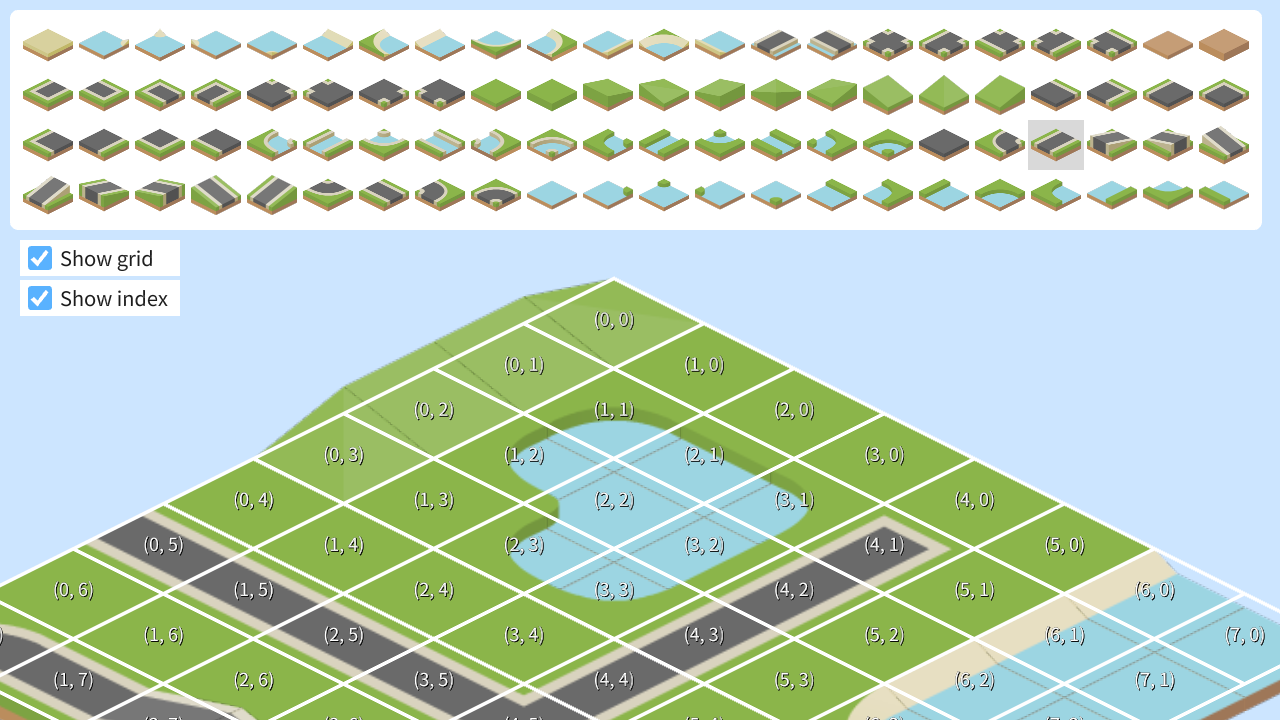
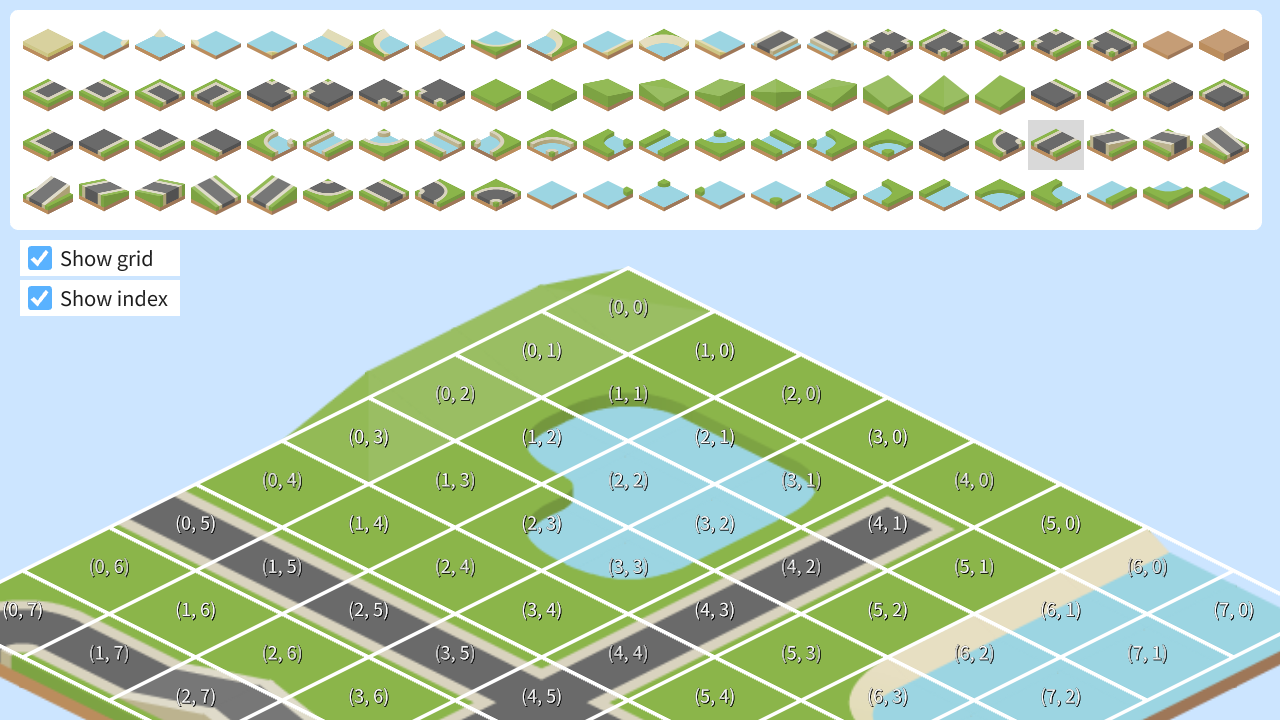
update

Changed region(s): [[0.0, 0.3667, 1.0, 1.0]]

diff --git a/Samples/IsometricView/Main.cpp b/Samples/IsometricView/Main.cpp
@@ -1,10 +1,10 @@
-# include <Siv3D.hpp> // OpenSiv3D v0.6.8
+# include <Siv3D.hpp> // OpenSiv3D v0.6.15
 
 // タイルの一辺の長さ（ピクセル）
-inline constexpr Vec2 TileOffset{ 50, 25 };
+inline constexpr Vec2 TileOffset{ 48, 24 };
 
 // タイルの厚み（ピクセル）
-inline constexpr int32 TileThickness = 15;
+inline constexpr int32 TileThickness = 17;
 
 /*
 	インデックスとタイルの配置の関係 (N = 4)
@@ -146,6 +146,27 @@ Optional<Point> ToIndex(const Vec2& pos, const Array<Quad>& columnQuads, const A
 	return Point{ x, y };
 }
 
+/// @brief 画像を読み込み、アルファ乗算済みのテクスチャを作成します。
+/// @param path 画像ファイルのパス
+/// @return アルファ乗算済みのテクスチャ
+/// @remark 境界付近の品質を向上させるため、アルファ乗算済みのテクスチャを作成します。
+/// @remark 描画時は `BlendState::Premultiplied` を指定してください。
+[[nodiscard]]
+Texture LoadPremultipliedTexture(FilePathView path)
+{
+	Image image{ path };
+	Color* p = image.data();
+	const Color* const pEnd = (p + image.num_pixels());
+	while (p != pEnd)
+	{
+		p->r = static_cast<uint8>((static_cast<uint16>(p->r) * p->a) / 255);
+		p->g = static_cast<uint8>((static_cast<uint16>(p->g) * p->a) / 255);
+		p->b = static_cast<uint8>((static_cast<uint16>(p->b) * p->a) / 255);
+		++p;
+	}
+	return Texture{ image };
+}
+
 void Main()
 {
 	// ウィンドウをリサイズする
@@ -153,7 +174,7 @@ void Main()
 
 	// 背景を水色にする
 	Scene::SetBackground(ColorF{ 0.8, 0.9, 1.0 });
-	
+
 	// https://kenney.nl/assets/isometric-roads
 	// からファイル一式をダウンロードし、「png」フォルダを App フォルダにコピーしてください。
 
@@ -170,7 +191,7 @@ void Main()
 			continue;
 		}
 
-		textures << Texture{ filePath };
+		textures << LoadPremultipliedTexture(filePath);
 	}
 
 	// 全部で 88 種類のタイルが読み込まれれば正常
@@ -217,26 +238,31 @@ void Main()
 			// 2D カメラによる座標変換を適用する
 			const auto tr = camera.createTransformer();
 
-			// 上から順にタイルを描く
-			for (int32 i = 0; i < (N * 2 - 1); ++i)
 			{
-				// x の開始インデックス
-				const int32 xi = (i < (N - 1)) ? 0 : (i - (N - 1));
+				// 乗算済みアルファ用のブレンドステートを適用する
+				const ScopedRenderStates2D blend{ BlendState::Premultiplied };
 
-				// y の開始インデックス
-				const int32 yi = (i < (N - 1)) ? i : (N - 1);
-
-				// 左から順にタイルを描く
-				for (int32 k = 0; k < (N - Abs(N - i - 1)); ++k)
+				// 上から順にタイルを描く
+				for (int32 i = 0; i < (N * 2 - 1); ++i)
 				{
-					// タイルのインデックス
-					const Point index{ (xi + k), (yi - k) };
+					// x の開始インデックス
+					const int32 xi = (i < (N - 1)) ? 0 : (i - (N - 1));
 
-					// そのタイルの底辺中央の座標
-					const Vec2 pos = ToTileBottomCenter(index, N);
+					// y の開始インデックス
+					const int32 yi = (i < (N - 1)) ? i : (N - 1);
 
-					// 底辺中央を基準にタイルを描く
-					textures[grid[index]].draw(Arg::bottomCenter = pos);
+					// 左から順にタイルを描く
+					for (int32 k = 0; k < (N - Abs(N - i - 1)); ++k)
+					{
+						// タイルのインデックス
+						const Point index{ (xi + k), (yi - k) };
+
+						// そのタイルの底辺中央の座標
+						const Vec2 pos = ToTileBottomCenter(index, N);
+
+						// 底辺中央を基準にタイルを描く
+						textures[grid[index]].draw(Arg::bottomCenter = pos);
+					}
 				}
 			}
 
@@ -299,40 +325,45 @@ void Main()
 			// 背景
 			TileMenuRoundRect.draw();
 
-			// 各タイル
-			for (int32 y = 0; y < 4; ++y)
 			{
-				for (int32 x = 0; x < 22; ++x)
+				// 乗算済みアルファ用のブレンドステートを適用する
+				const ScopedRenderStates2D blend{ BlendState::Premultiplied };
+
+				// 各タイル
+				for (int32 y = 0; y < 4; ++y)
 				{
-					// タイルの長方形
-					const Rect rect{ (20 + x * 56), (20 + y * 50), 56, 50 };
-
-					// タイルの種類
-					const int32 tileType = (y * 22 + x);
-
-					// 現在選択されているタイルであれば
-					if (tileType == tileTypeSelected)
+					for (int32 x = 0; x < 22; ++x)
 					{
-						// 背景を灰色にする
-						rect.draw(ColorF{ 0.85 });
-					}
+						// タイルの長方形
+						const Rect rect{ (20 + x * 56), (20 + y * 50), 56, 50 };
 
-					// タイルの上にマウスカーソルがあれば
-					if (rect.mouseOver())
-					{
-						// カーソルを手のアイコンにする
-						Cursor::RequestStyle(CursorStyle::Hand);
+						// タイルの種類
+						const int32 tileType = (y * 22 + x);
 
-						// 左クリックされたら		
-						if (MouseL.down())
+						// 現在選択されているタイルであれば
+						if (tileType == tileTypeSelected)
 						{
-							// 選択しているタイルの種類を更新する
-							tileTypeSelected = tileType;
+							// 背景を灰色にする
+							rect.draw(ColorF{ 0.85 });
 						}
-					}
 
-					// タイルを表示する
-					textures[tileType].scaled(0.5).drawAt(rect.center());
+						// タイルの上にマウスカーソルがあれば
+						if (rect.mouseOver())
+						{
+							// カーソルを手のアイコンにする
+							Cursor::RequestStyle(CursorStyle::Hand);
+
+							// 左クリックされたら		
+							if (MouseL.down())
+							{
+								// 選択しているタイルの種類を更新する
+								tileTypeSelected = tileType;
+							}
+						}
+
+						// タイルを表示する
+						textures[tileType].scaled(0.5).drawAt(rect.center());
+					}
 				}
 			}
 		}

diff --git a/Samples/IsometricView/README.md b/Samples/IsometricView/README.md
@@ -4,7 +4,7 @@
 |:--------------|:---------------------------------------------|
 | Author        | [Ryo Suzuki](https://twitter.com/Reputeless) |
 | Affiliation   | Siv3D                                        |
-| Siv3D Version | v0.6.8                                       |
+| Siv3D Version | v0.6.15                                      |
 | Platform      | Windows, macOS, Linux                        |
 
 ## 説明 | Description
